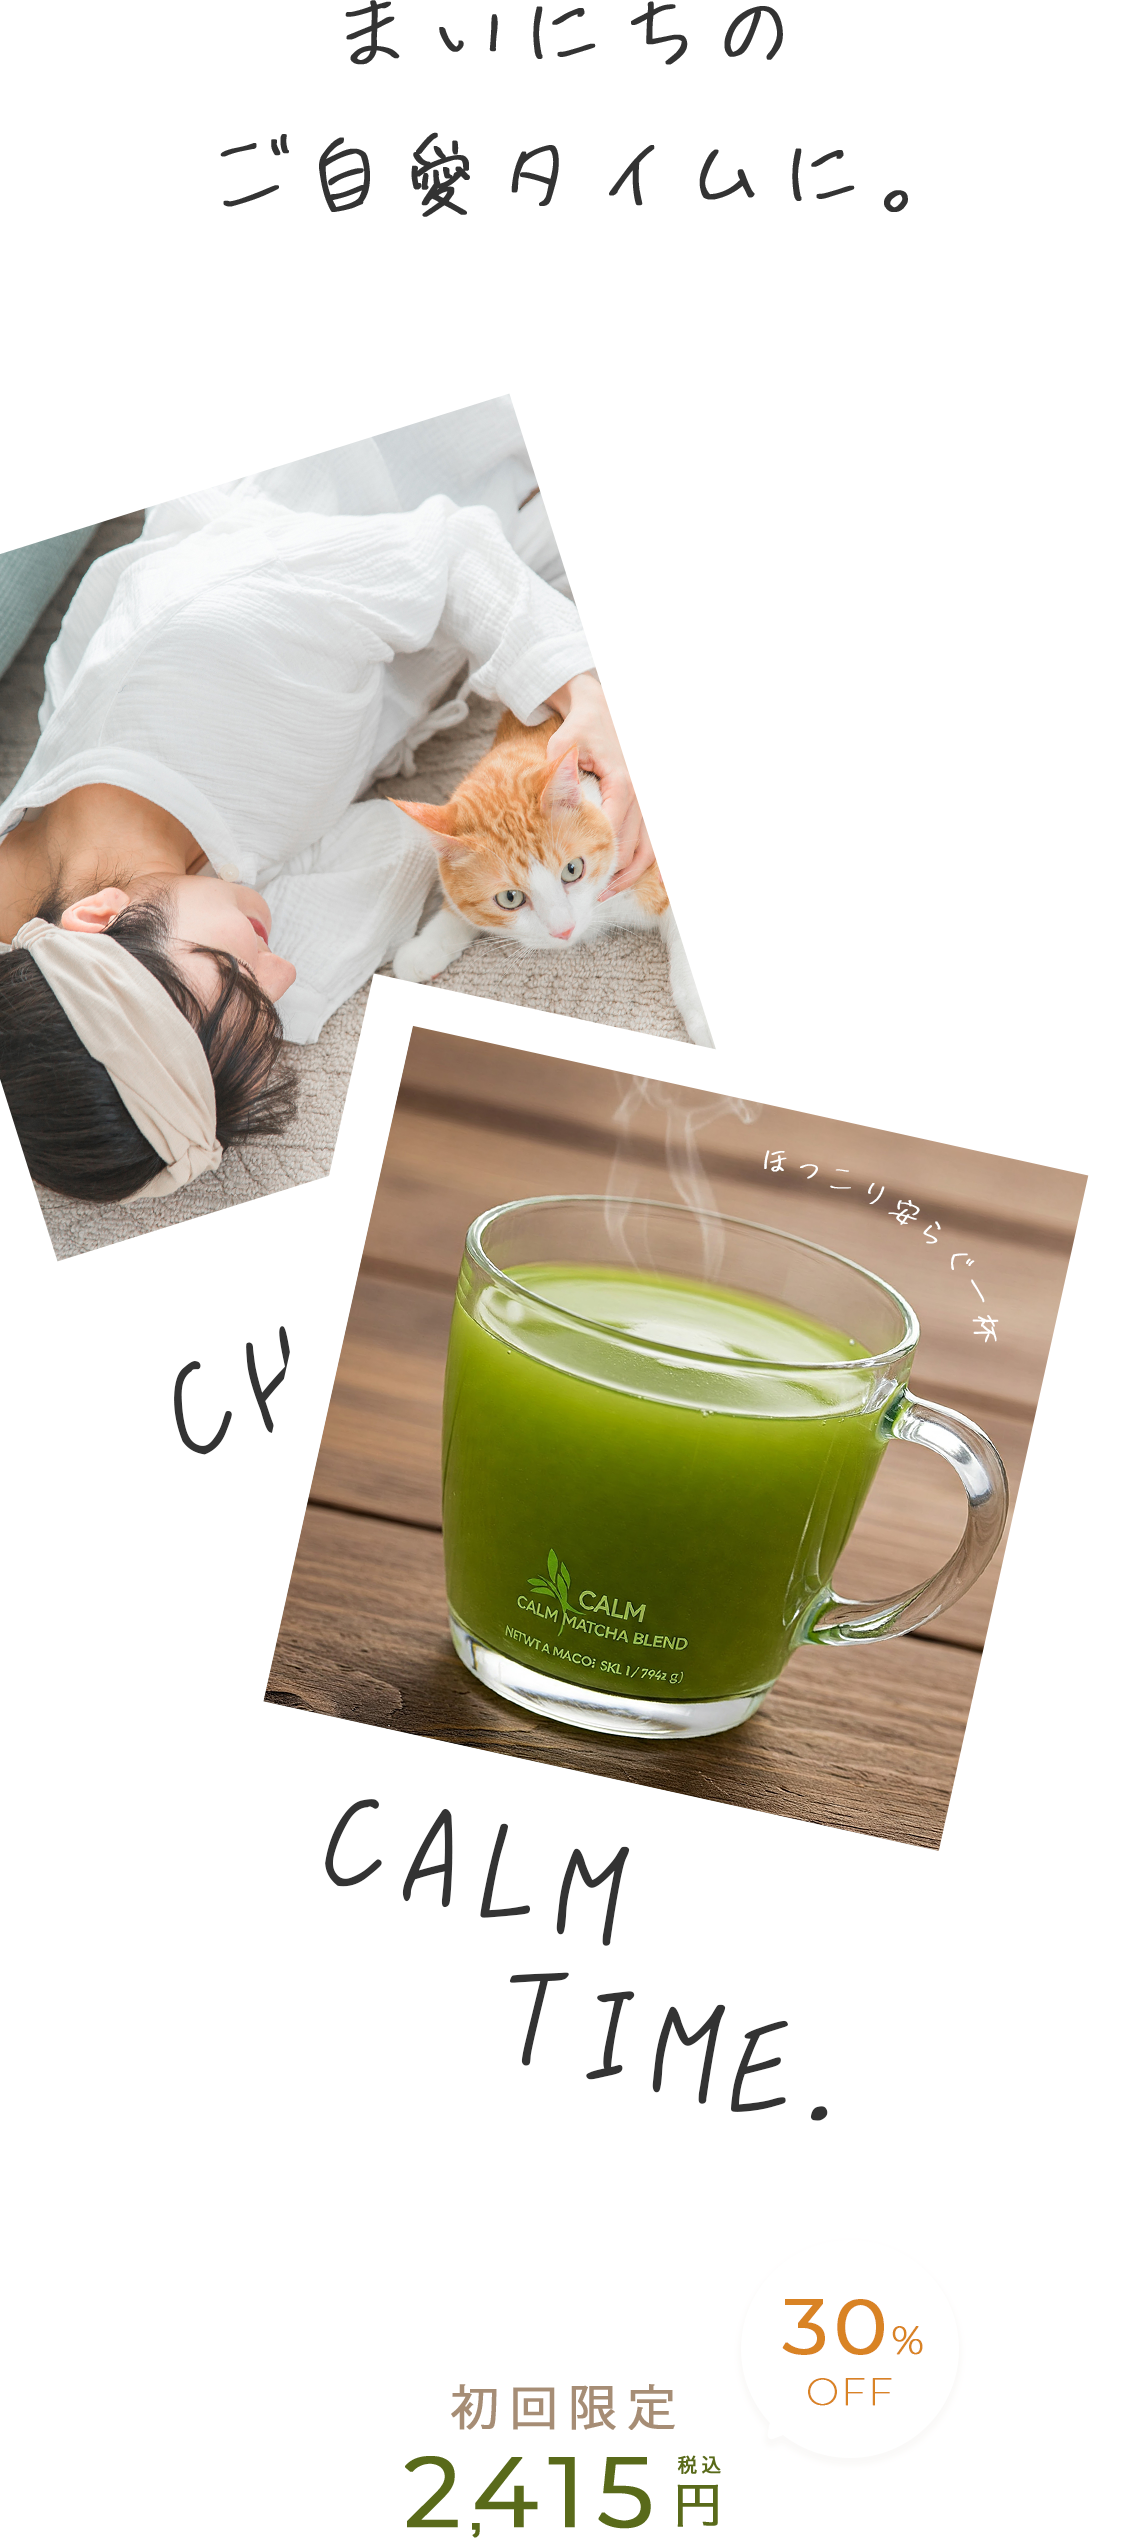
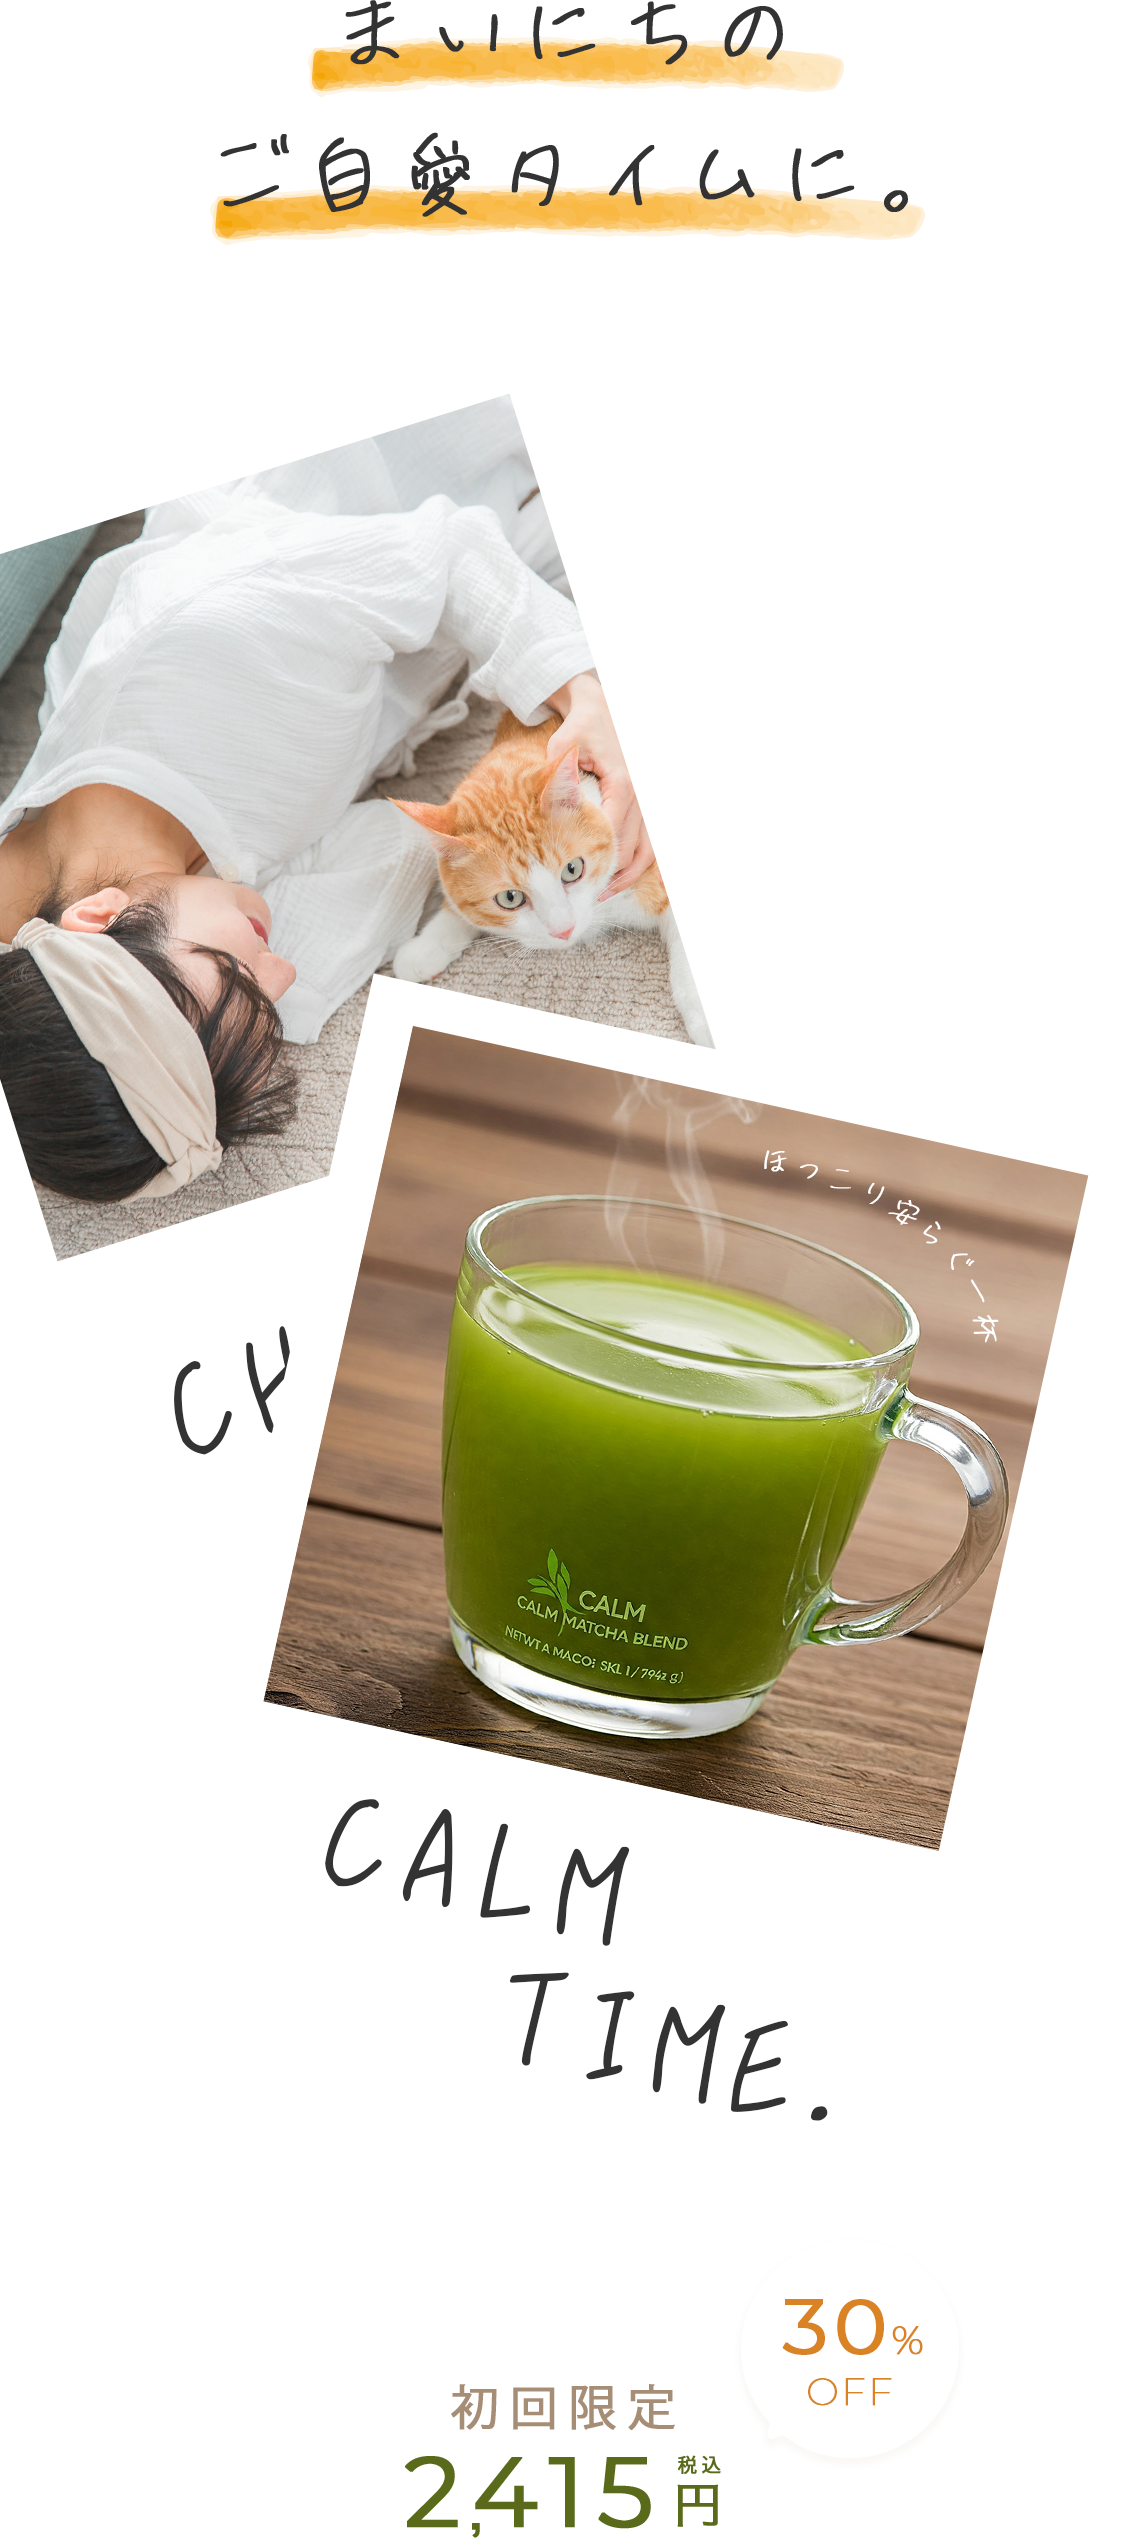
add comment

Changed region(s): [[0.1867, 0.0, 0.84, 0.0934]]

diff --git a/index.html b/index.html
@@ -117,7 +117,7 @@
 
                         <div class="conC__box">
 
-                            <h2 class="title accent2">特徴①</h2>
+                            <h2 class="title accent2">特徴<span class="accent">①</span></h2>
 
                             <p class="text">カフェイン控えめ</p>
 
@@ -133,7 +133,7 @@
 
                         <div class="conC__box">
 
-                            <h2 class="title accent2">特徴②</h2>
+                            <h2 class="title accent2">特徴<span class="accent">②</span></h2>
 
                             <p class="text">自宅で簡単に作れる</p>
 

diff --git a/css/style.css b/css/style.css
@@ -9,7 +9,7 @@
       --dark-main-color : #333; /*rgba(51, 51, 51, 0)*/
       --text-bright-color : #d4cab3; 
       --base-color:#fff;/*rgba(248, 245, 240, 0)*/
-      --icon-color : #a68d75;
+      --icon-color : #d98324;
       --icon-bk-color : #fff;
       --large-width:1000px;
       --middle-width:800px;
@@ -84,8 +84,7 @@
     }
 
     .accent{
-      font-size: 60px;
-      color: var(--main-color);
+      color: var(--icon-color);
       letter-spacing: 1.05rem;
     }
 
